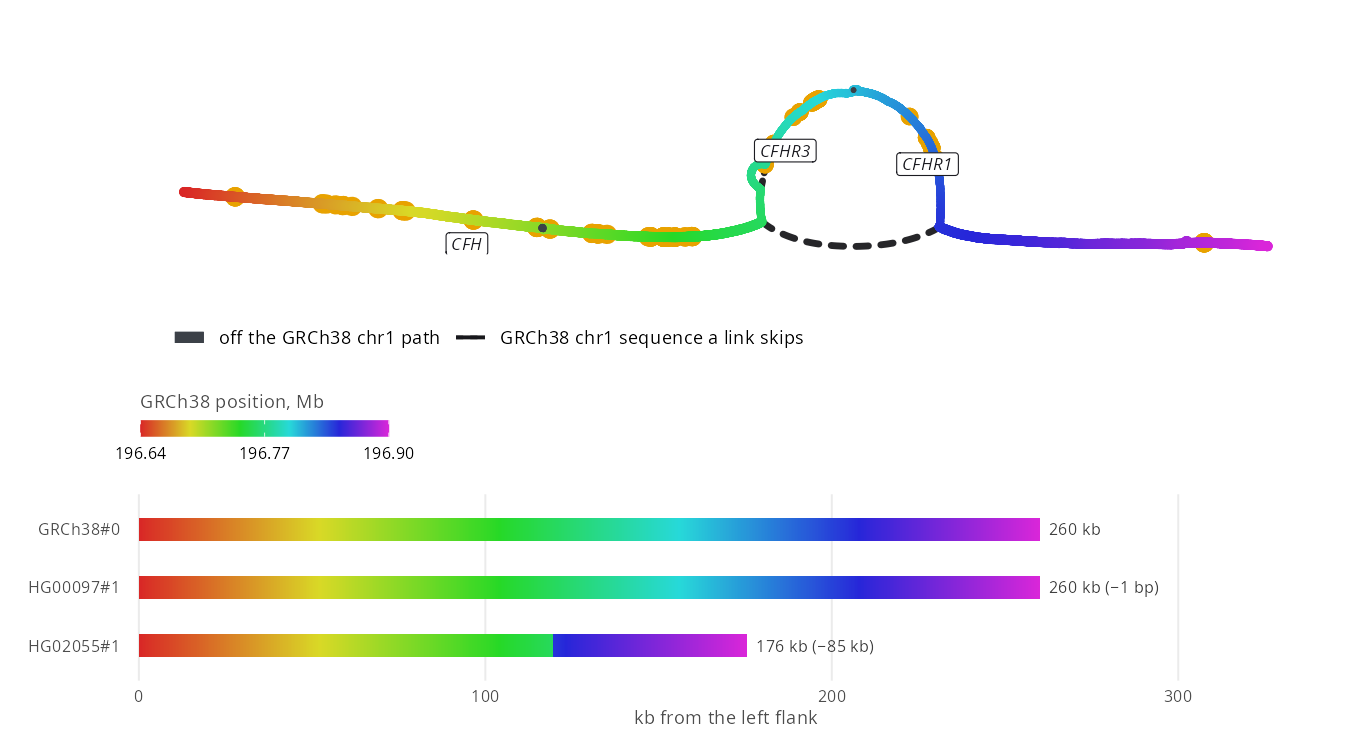
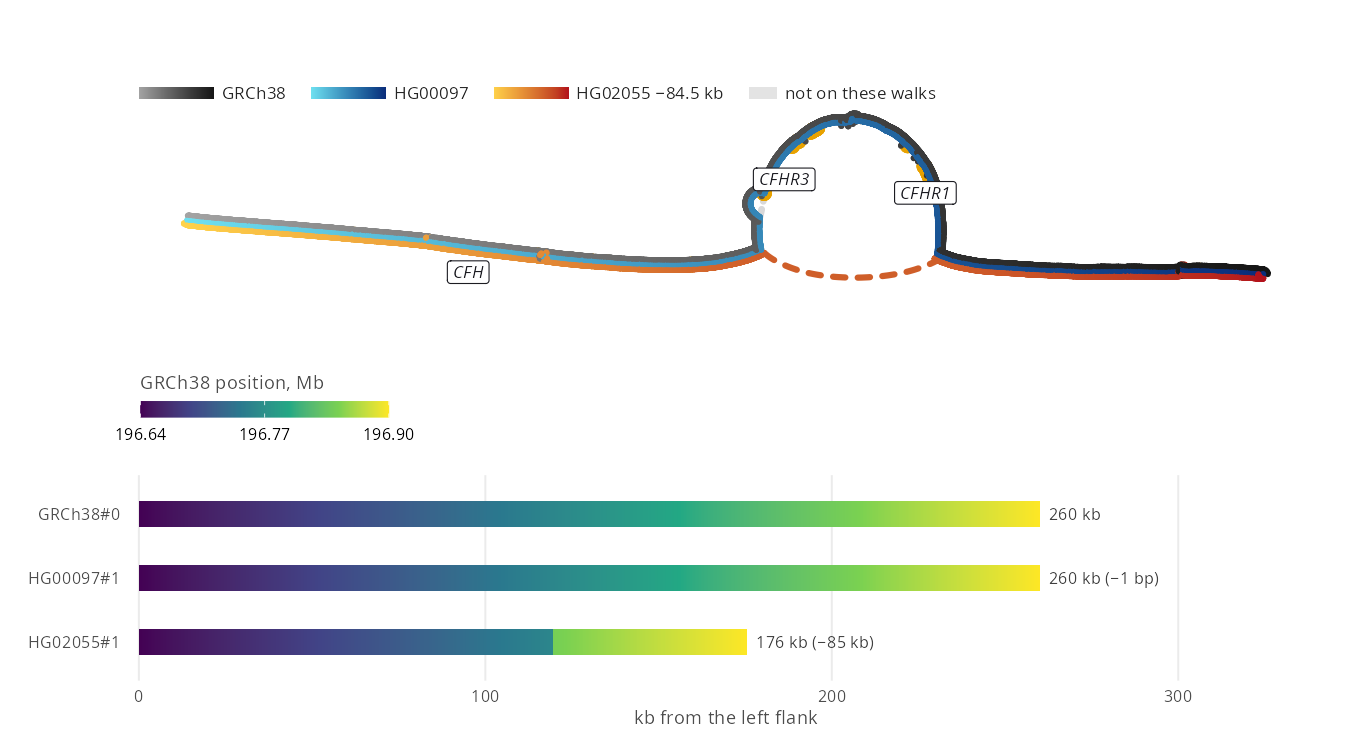
Shade each lifted walk along its own length in the three overlays, with walk rows below

diff --git a/README.md b/README.md
@@ -68,9 +68,9 @@ gfa-to-tabix hprc-v2.1-mc-grch38-f5.gfa --walks --refs GRCh38 -o hprc-v2.1-mc-gr
 
 <!-- gallery -->
 <table>
-<tr><td width="25%"><a href="docs/gallery.md#kiv-2-against-a-straight-grch38-backbone-with-lpas-exons"><img src="gallery/kiv2_stress.png" alt="Stress layout of the KIV-2 array from the hosted index: GRCh38 drawn straight and coloured by position, LPA's exons outlined in orange, non-reference nodes in grey hanging below, and dashed arches where haplotypes skip reference sequence" width="100%"></a><br>KIV-2 against a straight GRCh38 backbone, with LPA's exons</td><td width="25%"><a href="docs/gallery.md#lpas-kiv-2-repeat-a-panel-per-walk"><img src="gallery/kiv2_walks.png" alt="Force-directed layout of the KIV-2 array cut from the walk file for HG00097, GRCh38 and HG00097 each lifted in a separate panel and shaded yellow to red along its length: HG00097 walks one 22 kb loop that GRCh38 skips, and the panel titles give HG00097 55 kb and GRCh38 32.8 kb, each span the region plus 1 kb of flank either side" width="100%"></a><br>LPA's KIV-2 repeat, a panel per walk</td><td width="25%"><a href="docs/gallery.md#three-kiv-2-haplotypes-by-reference-position"><img src="gallery/kiv2_overlay.png" alt="Force-directed KIV-2 array of GRCh38, HG00097#1 and HG00133#1 coloured red to magenta along GRCh38, non-reference nodes in charcoal, with a walk row per haplotype below in the same hues: GRCh38 is one 31 kb gradient, HG00097#1 adds a 22 kb non-reference stretch, and HG00133#1 adds 116 kb, the large loop" width="100%"></a><br>Three KIV-2 haplotypes by reference position</td><td width="25%"><a href="docs/gallery.md#cfhr3-and-cfhr1-deleted-in-one-of-three-walks"><img src="gallery/cfh_overlay.png" alt="Force-directed CFH locus coloured red to magenta along GRCh38, with a walk row per haplotype below in the same hues: GRCh38 and HG00097#1 run the loop through CFHR3 and CFHR1, and HG02055#1, 84.5 kb shorter, skips from green to blue along the dashed deletion edge" width="100%"></a><br>CFHR3 and CFHR1 deleted in one of three walks</td></tr>
+<tr><td width="25%"><a href="docs/gallery.md#kiv-2-against-a-straight-grch38-backbone-with-lpas-exons"><img src="gallery/kiv2_stress.png" alt="Stress layout of the KIV-2 array from the hosted index: GRCh38 drawn straight and coloured by position, LPA's exons outlined in orange, non-reference nodes in grey hanging below, and dashed arches where haplotypes skip reference sequence" width="100%"></a><br>KIV-2 against a straight GRCh38 backbone, with LPA's exons</td><td width="25%"><a href="docs/gallery.md#lpas-kiv-2-repeat-a-panel-per-walk"><img src="gallery/kiv2_walks.png" alt="Force-directed layout of the KIV-2 array cut from the walk file for HG00097, GRCh38 and HG00097 each lifted in a separate panel and shaded yellow to red along its length: HG00097 walks one 22 kb loop that GRCh38 skips, and the panel titles give HG00097 55 kb and GRCh38 32.8 kb, each span the region plus 1 kb of flank either side" width="100%"></a><br>LPA's KIV-2 repeat, a panel per walk</td><td width="25%"><a href="docs/gallery.md#three-kiv-2-haplotypes-overlaid"><img src="gallery/kiv2_overlay.png" alt="Force-directed KIV-2 array with three walks lifted together, each shaded along its own length: GRCh38 grey to black, HG00097#1 cyan to navy, 22.2 kb longer, and HG00133#1 yellow to red, 116 kb longer. Walk rows below show each haplotype's length. HG00097#1 alone runs a small loop at the right, and only HG00133#1 runs the large loop below" width="100%"></a><br>Three KIV-2 haplotypes overlaid</td><td width="25%"><a href="docs/gallery.md#cfhr3-and-cfhr1-deleted-in-one-of-three-walks"><img src="gallery/cfh_overlay.png" alt="Force-directed CFH locus with three walks lifted together, each shaded along its own length: GRCh38 grey to black, HG00097#1 cyan to navy, and HG02055#1 yellow to red, 84.5 kb shorter, which takes the dashed deletion edge under the loop through CFHR3 and CFHR1. Walk rows below show each haplotype's length" width="100%"></a><br>CFHR3 and CFHR1 deleted in one of three walks</td></tr>
 <tr><td width="25%"><a href="docs/gallery.md#kiv-2-copy-number-as-walk-rows"><img src="gallery/kiv2_rows.png" alt="Walk rows at KIV-2 on a bp-from-flank axis: between the flanking reference nodes GRCh38 spans 31 kb and HG00133#2 164 kb, and the extra copies, on non-reference nodes, fall into three blocks: A, 68 kb walked by HG02055#1 and HG00133#2; B, 22 kb walked by four haplotypes; and C, 5.5 kb walked by two" width="100%"></a><br>KIV-2 copy number as walk rows</td><td width="25%"><a href="docs/gallery.md#amylase-copy-number-in-twelve-haplotypes"><img src="gallery/amylase_rows.png" alt="Walk rows over the salivary amylase genes, each bar coloured by the GRCh38 position it covers: the haplotypes span 146 kb to 475 kb, HG00128#1 walks the stretch near 103.72 Mb twice, so its green recurs, five haplotypes walk much of the non-reference block A twice, and HG00097#1 has a 19 kb stretch the graph lacks, drawn as an open box" width="100%"></a><br>Amylase copy number in twelve haplotypes</td><td width="25%"><a href="docs/gallery.md#c4a-and-c4b-in-the-stress-layout"><img src="gallery/c4_stress.png" alt="Stress layout of the complement C4 genes in the MHC, GRCh38 drawn straight, its C4A and C4B the long forms: non-reference sequence hangs in loops below C4A and C4B, and a dashed arch from inside C4A to inside C4B skips one module of C4, CYP21A1P and TNXA" width="100%"></a><br>C4A and C4B in the stress layout</td><td width="25%"><a href="docs/gallery.md#rhd-and-cyp2d6-gene-deletions-as-arches"><img src="gallery/deletions.png" alt="RHD and CYP2D6 in the stress layout, one above the other, GRCh38 straight and genes named: in each, a dashed arch spans the whole gene, the route of haplotypes that skip it, and non-reference sequence hangs in grey" width="100%"></a><br>RHD and CYP2D6 gene deletions as arches</td></tr>
-<tr><td width="25%"><a href="docs/gallery.md#c4-as-a-syng-graph-from-impg"><img src="gallery/syng_c4.png" alt="Force-directed syng graph of C4 from 90 haplotypes: a ring coloured red to magenta along GRCh38, whose two C4 copies share its nodes, with blue specks where only the second copy goes. Under it, walk rows for three samples in the same hues: GRCh38 is one smooth gradient over 84 kb, HG02080's 51 kb haplotype has one copy and HG01978's 116 kb haplotype three, each copy in the colours of the GRCh38 copy it continues" width="100%"></a><br>C4 as a syng graph from impg</td><td width="25%"><a href="docs/gallery.md#c4s-herv-k-loop-in-three-syng-walks"><img src="gallery/syng_overlay.png" alt="The syng graph of C4 coloured red to magenta along GRCh38, with a walk row per haplotype below in the same hues: GRCh38 is one 84 kb gradient, HG01952#1 is 12.7 kb shorter and HG01978#2 32.7 kb longer. All three run the ring every C4 copy shares, and only HG01952#1 skips the loop at the left, the 6.5 kb HERV-K of C4's long form" width="100%"></a><br>C4's HERV-K loop in three syng walks</td><td width="25%"><a href="docs/gallery.md#your-own-colours-kiv-2-nodes-by-walk-passes"><img src="gallery/own_colours.png" alt="The KIV-2 array cut from the walk file, force-directed and drawn with plain ggplot2 layers: grey edges, and each node coloured by how many times the cut's walks pass through it, light for once to dark for six" width="100%"></a><br>Your own colours: KIV-2 nodes by walk passes</td></tr>
+<tr><td width="25%"><a href="docs/gallery.md#c4-as-a-syng-graph-from-impg"><img src="gallery/syng_c4.png" alt="Force-directed syng graph of C4 from 90 haplotypes: a ring coloured red to magenta along GRCh38, whose two C4 copies share its nodes, with blue specks where only the second copy goes. Under it, walk rows for three samples in the same hues: GRCh38 is one smooth gradient over 84 kb, HG02080's 51 kb haplotype has one copy and HG01978's 116 kb haplotype three, each copy in the colours of the GRCh38 copy it continues" width="100%"></a><br>C4 as a syng graph from impg</td><td width="25%"><a href="docs/gallery.md#c4s-herv-k-loop-in-three-syng-walks"><img src="gallery/syng_overlay.png" alt="The syng graph of C4 with three walks lifted together, each shaded along its own length: GRCh38 grey to black, HG01952#1 cyan to navy, 12.7 kb shorter, and HG01978#2 yellow to red, 32.7 kb longer. Walk rows below show each haplotype's length. Only HG01952#1 skips the loop at the left, the 6.5 kb HERV-K of C4's long form" width="100%"></a><br>C4's HERV-K loop in three syng walks</td><td width="25%"><a href="docs/gallery.md#your-own-colours-kiv-2-nodes-by-walk-passes"><img src="gallery/own_colours.png" alt="The KIV-2 array cut from the walk file, force-directed and drawn with plain ggplot2 layers: grey edges, and each node coloured by how many times the cut's walks pass through it, light for once to dark for six" width="100%"></a><br>Your own colours: KIV-2 nodes by walk passes</td></tr>
 </table>
 <!-- /gallery -->
 

diff --git a/docs/gallery.md b/docs/gallery.md
@@ -59,15 +59,14 @@ g <- bandage_layout(
 autoplot(g, ncol = 2)
 ```
 
-## Three KIV-2 haplotypes by reference position
+## Three KIV-2 haplotypes overlaid
 
 `chr6:160,616,004-160,646,753`
 
-![Force-directed KIV-2 array of GRCh38, HG00097#1 and HG00133#1 coloured red to magenta along GRCh38, non-reference nodes in charcoal, with a walk row per haplotype below in the same hues: GRCh38 is one 31 kb gradient, HG00097#1 adds a 22 kb non-reference stretch, and HG00133#1 adds 116 kb, the large loop](../gallery/kiv2_overlay.png)
+![Force-directed KIV-2 array with three walks lifted together, each shaded along its own length: GRCh38 grey to black, HG00097#1 cyan to navy, 22.2 kb longer, and HG00133#1 yellow to red, 116 kb longer. Walk rows below show each haplotype's length. HG00097#1 alone runs a small loop at the right, and only HG00133#1 runs the large loop below](../gallery/kiv2_overlay.png)
 
 ```r
 library(ggbandage)
-library(ggplot2)
 library(patchwork)
 
 walks <- "https://jbrowse.org/demos/hprc/hprc-v2.1-mc-grch38-f5.GRCh38.walks.bed.gz"
@@ -75,22 +74,20 @@ genes <- "https://jbrowse.org/ucsc/hg38/ncbiRefSeq.gff.gz"
 kiv2 <- "chr6:160,616,004-160,646,753"
 
 haps <- c("HG00097#1", "HG00133#1")
-g <- bandage_layout(walks, region = kiv2, haplotypes = haps, genes = genes)
+progress <- lapply(c("GRCh38", haps), function(w) list(walk = w, color = list(field = "progress")))
+g <- bandage_layout(walks, region = kiv2, haplotypes = haps, walks = progress, genes = genes)
 rows <- bandage_walk_rows(walks, kiv2, haplotypes = haps)
-(autoplot(g) + guides(fill = "none")) /
-  autoplot(rows, ribbons = FALSE, hues = "bandage") +
-  plot_layout(heights = c(2.5, 1))
+autoplot(g) / autoplot(rows, ribbons = FALSE) + plot_layout(heights = c(2.5, 1))
 ```
 
 ## CFHR3 and CFHR1 deleted in one of three walks
 
 `chr1:196,640,001-196,900,000`
 
-![Force-directed CFH locus coloured red to magenta along GRCh38, with a walk row per haplotype below in the same hues: GRCh38 and HG00097#1 run the loop through CFHR3 and CFHR1, and HG02055#1, 84.5 kb shorter, skips from green to blue along the dashed deletion edge](../gallery/cfh_overlay.png)
+![Force-directed CFH locus with three walks lifted together, each shaded along its own length: GRCh38 grey to black, HG00097#1 cyan to navy, and HG02055#1 yellow to red, 84.5 kb shorter, which takes the dashed deletion edge under the loop through CFHR3 and CFHR1. Walk rows below show each haplotype's length](../gallery/cfh_overlay.png)
 
 ```r
 library(ggbandage)
-library(ggplot2)
 library(patchwork)
 
 walks <- "https://jbrowse.org/demos/hprc/hprc-v2.1-mc-grch38-f5.GRCh38.walks.bed.gz"
@@ -98,11 +95,10 @@ genes <- "https://jbrowse.org/ucsc/hg38/ncbiRefSeq.gff.gz"
 
 cfh <- "chr1:196,640,001-196,900,000"
 haps <- c("HG00097#1", "HG02055#1")
-g <- bandage_layout(walks, region = cfh, haplotypes = haps, genes = genes)
+progress <- lapply(c("GRCh38", haps), function(w) list(walk = w, color = list(field = "progress")))
+g <- bandage_layout(walks, region = cfh, haplotypes = haps, walks = progress, genes = genes)
 rows <- bandage_walk_rows(walks, cfh, haplotypes = haps)
-(autoplot(g) + guides(fill = "none")) /
-  autoplot(rows, ribbons = FALSE, hues = "bandage") +
-  plot_layout(heights = c(1.5, 1))
+autoplot(g) / autoplot(rows, ribbons = FALSE) + plot_layout(heights = c(1.5, 1))
 ```
 
 ## KIV-2 copy number as walk rows
@@ -235,26 +231,25 @@ rows <- bandage_walk_rows(syng, haplotypes = c("HG02080", "HG00735", "HG01978"))
 
 `chr6:31,972,047-32,055,647`
 
-- The rows show which stretches each walk visits and its copy count: HG01978#2 has
-  one 32.7 kb copy more than GRCh38
+- Each walk is shaded along its own length, so a walk that goes round the ring
+  twice runs its gradient twice. The rows below give each haplotype's length:
+  HG01978#2 has one 32.7 kb copy more than GRCh38
 - The loop at the left is the HERV-K in C4's intron 9, which makes a C4 long.
   GRCh38's C4A and C4B both contain it, and both of HG01952#1's copies lack it
 
-![The syng graph of C4 coloured red to magenta along GRCh38, with a walk row per haplotype below in the same hues: GRCh38 is one 84 kb gradient, HG01952#1 is 12.7 kb shorter and HG01978#2 32.7 kb longer. All three run the ring every C4 copy shares, and only HG01952#1 skips the loop at the left, the 6.5 kb HERV-K of C4's long form](../gallery/syng_overlay.png)
+![The syng graph of C4 with three walks lifted together, each shaded along its own length: GRCh38 grey to black, HG01952#1 cyan to navy, 12.7 kb shorter, and HG01978#2 yellow to red, 32.7 kb longer. Walk rows below show each haplotype's length. Only HG01952#1 skips the loop at the left, the 6.5 kb HERV-K of C4's long form](../gallery/syng_overlay.png)
 
 ```r
 library(ggbandage)
-library(ggplot2)
 library(patchwork)
 
 syng <- "https://raw.githubusercontent.com/GMOD/jbrowse-plugin-graphgenomeviewer/main/test_data/syng/c4.syng.gfa.gz"
 
 haps <- c("HG01952#1", "HG01978#2")
-g <- bandage_layout(syng)
+progress <- lapply(c("grch38", haps), function(w) list(walk = w, color = list(field = "progress")))
+g <- bandage_layout(syng, walks = progress)
 rows <- bandage_walk_rows(syng, haplotypes = haps)
-(autoplot(g) + guides(fill = "none")) /
-  autoplot(rows, ribbons = FALSE, hues = "bandage") +
-  plot_layout(heights = c(2.5, 1))
+autoplot(g) / autoplot(rows, ribbons = FALSE) + plot_layout(heights = c(2.5, 1))
 ```
 
 ## Your own colours: KIV-2 nodes by walk passes
